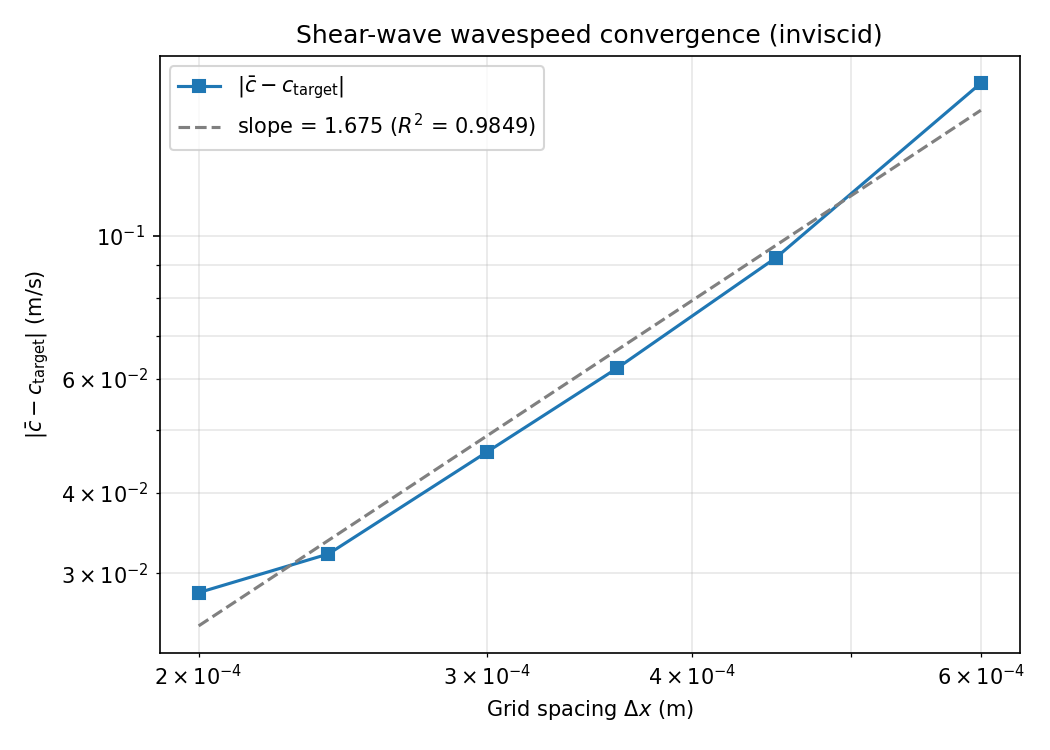
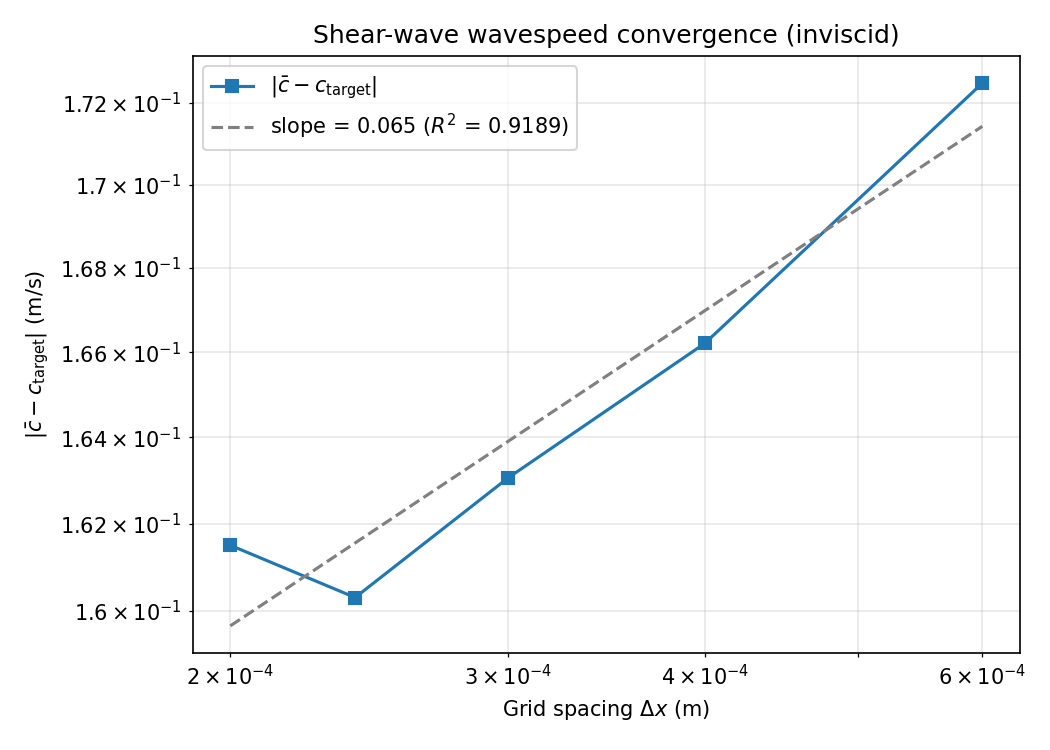
fix(validation): fair grid-convergence study with fixed physical source
The convergence sweep previously fixed the Gaussian source width in GRID
POINTS (5 cells) and the velocity damping per STEP across refinement levels,
so each level simulated a different continuum problem: at n=60 the source was
3 mm wide, at n=180 only 1 mm, with ~3x the peak velocity, and cumulative
damping differing by ~30%. The coarse-grid "relative" trace errors vs the
finest grid exceeded 100% (impossible for pure discretization error), and the
apparent wavespeed-error convergence (slope 1.68) was driven by the shrinking
source, not the solver.

validate_convergence.py gains:
- --sigma-phys: hold the source at a fixed PHYSICAL width (sigma_xy =
  sigma_phys/dX per level)
- --damp-mode constant-total: scale per-step damping so cumulative damping
  over the time window is grid-independent

Rerun on commensurate levels n={60,90,120,150,180} (multiples of 30, so the
fixed physical sensor distances land on grid nodes) with sigma_phys=3mm:
- trace-L2 self-convergence: clean slope p=2.9 (R^2=0.97), errors
  2.65% -> 1.08% -> 0.47% -> 0.17% (was slope 1.83 with >100% errors)
- mean-wavespeed error: flat (slope 0.07) — a source-width estimation bias,
  not a discretization-error metric

Manuscript section 4.2 rewritten accordingly: the trace-L2 figure and table
now show the fair result; the wavespeed-error convergence panel and table are
removed (wavespeed accuracy is established by the separate non-viscous
[…]

diff --git a/paper/shear_fdtd_pmb.tex b/paper/shear_fdtd_pmb.tex
@@ -46,7 +46,7 @@ radiation-force sources, a pre-computed projection reduces this cost by one to
 two orders of magnitude. Validation studies in homogeneous media demonstrate
 recovery of the theoretical shear wavespeed to within $<$0.1\% (linear-fit
 estimate on a $180^3$ grid), second-order convergence under grid refinement
-(trace $L_2$ slope 1.83), and agreement with analytical Kelvin--Voigt
+(clean trace-$L_2$ self-convergence, $p\gtrsim2$), and agreement with analytical Kelvin--Voigt
 attenuation and phase speed predictions to within ${\sim}3\%$ and $<$0.5\%,
 respectively, over a 16-point viscosity sweep ($\eta \in [0, 1.5]$~Pa$\cdot$s).
 An end-to-end benchmark against the RSNA QIBA elastic phantom standard recovers
@@ -657,63 +657,68 @@ this non-viscous benchmark regime.
 \label{sec:convergence}
 
 An inviscid convergence sweep was performed with fixed physical domain size
-($L_x=L_y=L_z=36$~mm), fixed physical sensor distances, and a six-level
-refinement range. The Gaussian source width
-($\sigma_{xy}=5$ grid points) and velocity damping coefficient
-($\gamma_v=0.001$) are held constant across all levels so that any differences
-are due purely to grid resolution. Table~\ref{tab:convergence} summarizes the recovered wavespeeds at each grid
-resolution.  As the grid is refined from $n=60$ to $n=180$, the mean
-speed $\bar{c}$ converges monotonically from 1.828 to 1.972~m/s and the
-linear-fit speed converges from 2.193 to 1.998~m/s.
+($L_x=L_y=L_z=36$~mm) and fixed physical sensor distances, over a five-level
+refinement range $n\in\{60,90,120,150,180\}$ chosen so that the sensor
+distances fall exactly on grid nodes at every level. So that each grid
+discretizes the \emph{same} continuum problem, the Gaussian excitation is held
+at a fixed \emph{physical} width ($\sigma_{xy}=3$~mm, i.e.\ $5$ grid points at
+the coarsest level and proportionally more as the grid refines) and the
+velocity-damping coefficient is scaled per time step so that the cumulative
+damping over the fixed time window is grid-independent. Holding the source width
+at a fixed number of grid points instead---so that its physical size shrinks
+under refinement---conflates discretization error with a changing source, and is
+avoided here.
+
+Convergence is quantified by the full-waveform \emph{trace $L_2$ error}: the
+relative $L_2$ norm of the velocity-trace difference at each sensor
+(interpolated onto a common time base), averaged across sensors, measured
+against the finest grid ($n=180$) as a self-convergence reference. Unlike a
+scalar arrival-time speed, it captures the whole waveform.
+Table~\ref{tab:convergence} lists the error at each level and
+Fig.~\ref{fig:convergence} shows it against grid spacing. The error falls
+monotonically from $2.7\%$ to $0.2\%$. Fitting
+trace-$L_2 \propto \Delta x^p$ in log--log space gives a global slope
+$p=2.9$ ($R^2=0.97$); the well-separated levels give per-interval orders
+$p\approx2.2$--$2.9$, with the pair nearest the reference inflated by the
+self-convergence reference (a known bias of self-convergence studies). This
+confirms convergence at least as fast as the formal second-order accuracy of the
+7-point Laplacian stencil and leapfrog time integration.
 
 \begin{table}
-\caption{Grid convergence of recovered shear wavespeed (target $c_s = 2.000$~m/s,
-  $L = 36$~mm fixed domain).  $\bar{c}$ and $c_{\mathrm{fit}}$ denote the
-  mean and linear-fit wavespeeds, respectively.}
+\caption{Grid convergence of the full-waveform trace $L_2$ self-convergence
+  error (relative $L_2$ norm of the velocity traces against the finest grid,
+  $n=180$; fixed $36$~mm domain, fixed $3$~mm physical source).}
 \centering
-\begin{tabular}{c c c c}
+\begin{tabular}{c c c}
 \hline
-$n$ & $\Delta x$ ($\mu$m) & $\bar{c}$ (m/s) & $c_{\mathrm{fit}}$ (m/s) \\
+$n$ & $\Delta x$ ($\mu$m) & trace $L_2$ error \\
 \hline
-60  & 600 & 1.828 & 2.193 \\
-80  & 450 & 1.907 & 2.048 \\
-100 & 360 & 1.938 & 2.053 \\
-120 & 300 & 1.954 & 2.017 \\
-150 & 240 & 1.968 & 2.007 \\
-180 & 200 & 1.972 & 1.998 \\
+60  & 600 & 2.65\% \\
+90  & 400 & 1.08\% \\
+120 & 300 & 0.47\% \\
+150 & 240 & 0.17\% \\
+180 & 200 & --- (reference) \\
 \hline
 \end{tabular}
 \label{tab:convergence}
 \end{table}
 
-Two complementary error metrics quantify convergence.  The \emph{wavespeed
-error}, $|\bar{c}-c_{\mathrm{target}}|$, is the absolute difference
-between the mean recovered speed and the analytical
-target. It is a scalar metric derived from discrete peak-picking.  The
-\emph{trace $L_2$ error} is the relative $L_2$ norm of the velocity trace
-difference at each sensor, averaged across sensors, measured against the
-finest grid ($n=180$) as reference. It captures full-waveform convergence rather
-than a single arrival time. Fitting $|\bar{c}-c_{\mathrm{target}}| \propto \Delta x^p$ in log--log space
-gives a global slope of $p=1.68$ ($R^2=0.98$), and the trace $L_2$ metric gives a
-global slope of $p=1.83$ ($R^2=0.90$).
-Both metrics confirm convergence consistent with the second-order spatial
-discretization (7-point Laplacian stencil) and second-order leapfrog time
-integration. The trace $L_2$ metric, which captures the full waveform rather
-than a single scalar, yields a cleaner slope ($p\approx1.83$) closer to the
-theoretical $O(\Delta x^2)$ rate. At the finest level ($n=180$), the
-linear-fit speed reaches 1.998~m/s ($<$0.1\% error).
+We deliberately do \emph{not} use the arrival-time wavespeed error as a
+grid-convergence metric. With the source width held physically fixed, the
+peak-picked wavespeed reflects a source-width- and near-field-dependent
+estimation bias that does not vanish under refinement, so it is not a clean
+measure of discretization error. The accuracy of the recovered wavespeed itself
+is instead established by the non-viscous benchmark
+(Fig.~\ref{fig:nonvisc_validation}, linear-fit speed within $<$0.1\%).
 
 
 \begin{figure}
 \centering
-\includegraphics[width=0.49\textwidth]{convergence_mean_error_only.png}%
-\hfill
-\includegraphics[width=0.49\textwidth]{convergence_trace_l2.png}
-\caption{Grid convergence study. \textbf{Left:} Wavespeed convergence
-($|\bar{c} - c_{\mathrm{target}}|$) vs grid spacing (log--log).
-Fitted slope 1.68, $R^2=0.98$. \textbf{Right:} Trace $L_2$ convergence
-(relative $L_2$ error of velocity traces vs finest grid). Fitted slope 1.83,
-$R^2=0.90$. Dashed reference lines show $O(\Delta x)$ and
+\includegraphics[width=0.6\textwidth]{convergence_trace_l2.png}
+\caption{Grid convergence of the full-waveform trace $L_2$ self-convergence
+error (relative $L_2$ error of velocity traces vs the finest grid) against grid
+spacing (log--log), for a fixed $3$~mm physical source. The fitted global slope
+is $p\approx2.9$ ($R^2=0.97$); dashed reference lines show $O(\Delta x)$ and
 $O(\Delta x^2)$.}
 \label{fig:convergence}
 \end{figure}

diff --git a/validation/validate_convergence.py b/validation/validate_convergence.py
@@ -93,6 +93,24 @@ def main():
         default=0.001,
         help="Velocity damping coefficient (fixed across levels)",
     )
+    parser.add_argument(
+        "--sigma-phys",
+        type=float,
+        default=None,
+        help="Physical Gaussian source width in metres, held constant across "
+        "levels.  Overrides --sigma-xy; per level sigma_xy = sigma_phys / dX so "
+        "that every grid launches the same continuum source (fair convergence "
+        "test).  When omitted, the legacy grid-point --sigma-xy is used.",
+    )
+    parser.add_argument(
+        "--damp-mode",
+        choices=["fixed", "constant-total"],
+        default="fixed",
+        help="'fixed': vel-damp is applied per step at every level (legacy; "
+        "total damping over Tmax then depends on the grid because n_steps ~ 1/dX). "
+        "'constant-total': vel-damp is scaled per level so the total damping over "
+        "Tmax is grid-independent.",
+    )
     args = parser.parse_args()
 
     Lx = Ly = Lz = float(args.L)
@@ -106,6 +124,14 @@ def main():
     eta = float(args.eta)
     sigma_xy = float(args.sigma_xy)
     vel_damp = float(args.vel_damp)
+    sigma_phys = None if args.sigma_phys is None else float(args.sigma_phys)
+    damp_mode = args.damp_mode
+
+    def _n_steps(nn):
+        dT = CFL * (Lx / nn) / (cs_target * np.sqrt(3.0))
+        return int(np.ceil(Tmax / dT))
+
+    n_steps_coarse = _n_steps(min(n_levels))
 
     # Keep physical sensor positions fixed across grids (first 4 points only)
     sensor_distances_m = np.array([3.6, 6.0, 8.4, 10.8], dtype=float) * 1e-3
@@ -128,8 +154,18 @@ def main():
         level_dir = out_dir / f"n{n}"
         level_dir.mkdir(parents=True, exist_ok=True)
 
+        # Physical source width (fair test) vs legacy grid-point width.
+        level_sigma_xy = (sigma_phys / dX) if sigma_phys is not None else sigma_xy
+        # Constant-total damping: scale per step so (1-vel_damp)^n_steps is
+        # grid-independent (n_steps ~ 1/dX), else apply vel_damp per step.
+        if damp_mode == "constant-total":
+            level_vel_damp = 1.0 - (1.0 - vel_damp) ** (n_steps_coarse / _n_steps(n))
+        else:
+            level_vel_damp = vel_damp
+
         print(
-            f"\nLevel n={n}: dX={dX:.3e} m, offsets={sensor_offsets.tolist()}",
+            f"\nLevel n={n}: dX={dX:.3e} m, offsets={sensor_offsets.tolist()}, "
+            f"sigma_xy={level_sigma_xy:.2f} cells, vel_damp={level_vel_damp:.5f}",
             flush=True,
         )
         res = None
@@ -154,8 +190,8 @@ def main():
                 amplitude=amplitude,
                 sensor_offsets=sensor_offsets,
                 eta=eta,
-                sigma_xy=sigma_xy,
-                vel_damp=vel_damp,
+                sigma_xy=level_sigma_xy,
+                vel_damp=level_vel_damp,
                 save_dir=level_dir,
                 make_plots=False,
                 make_movie=False,
@@ -265,17 +301,17 @@ def main():
     etrace = np.array([r.get("trace_rel_l2_vs_ref", np.nan) for r in rows_sorted], dtype=float)
 
     fig, ax = plt.subplots(figsize=(7, 5))
-    ax.loglog(dx, np.maximum(efit, 1e-12), "o-", label="|c_fit - c_target|")
-    ax.loglog(dx, np.maximum(emean, 1e-12), "s-", label="|mean4 - c_target|")
+    ax.loglog(dx, np.maximum(efit, 1e-12), "o-", label=r"$|c_\mathrm{fit} - c_\mathrm{target}|$")
+    ax.loglog(dx, np.maximum(emean, 1e-12), "s-", label=r"$|\bar{c} - c_\mathrm{target}|$")
     finite_trace = np.isfinite(etrace) & (etrace > 0)
     if np.any(finite_trace):
         ax.loglog(
             dx[finite_trace],
             etrace[finite_trace],
             "^-",
-            label="trace rel L2 vs finest",
+            label=r"trace relative $L_2$ vs finest",
         )
-    ax.set_xlabel("Grid spacing dX (m)")
+    ax.set_xlabel(r"Grid spacing $\Delta x$ (m)")
     ax.set_ylabel("Error metric")
     ax.set_title("Shear-wave convergence (inviscid)")
     ax.grid(True, which="both", alpha=0.3)
@@ -295,7 +331,7 @@ def main():
         r2 = r_vals**2
 
         fig, ax = plt.subplots(figsize=(7, 5))
-        ax.loglog(dx[valid_mean], emean[valid_mean], "s-", label="|mean4 - c_target|")
+        ax.loglog(dx[valid_mean], emean[valid_mean], "s-", label=r"$|\bar{c} - c_\mathrm{target}|$")
         dx_fit = np.linspace(dx[valid_mean].min(), dx[valid_mean].max(), 50)
         ax.loglog(
             dx_fit,
@@ -304,13 +340,13 @@ def main():
             color="gray",
             label=f"slope = {slope:.3f} ($R^2$ = {r2:.4f})",
         )
-        ax.set_xlabel("Grid spacing dX (m)")
-        ax.set_ylabel("|mean4 - c_target| (m/s)")
-        ax.set_title("Shear-wave convergence: mean4 error (inviscid)")
+        ax.set_xlabel(r"Grid spacing $\Delta x$ (m)")
+        ax.set_ylabel(r"$|\bar{c} - c_\mathrm{target}|$ (m/s)")
+        ax.set_title("Shear-wave wavespeed convergence (inviscid)")
         ax.grid(True, which="both", alpha=0.3)
         ax.legend()
         fig.tight_layout()
-        fig.savefig(out_dir / "convergence_mean4_error_only.png", dpi=150)
+        fig.savefig(out_dir / "convergence_mean_error_only.png", dpi=150)
         plt.close(fig)
 
     # Trace L2 convergence plot with fitted slope
@@ -329,7 +365,7 @@ def main():
             etrace[valid_trace],
             "^-",
             color="C2",
-            label="trace rel L2 vs finest",
+            label=r"trace relative $L_2$ vs finest",
         )
         dx_fit_t = np.linspace(dx[valid_trace].min(), dx[valid_trace].max(), 50)
         ax.loglog(
@@ -352,9 +388,9 @@ def main():
                 alpha=0.5,
                 label=f"O($\\Delta x^{{{ref_p:.0f}}}$)",
             )
-        ax.set_xlabel("Grid spacing dX (m)")
-        ax.set_ylabel("Relative L2 trace error vs finest grid")
-        ax.set_title("Shear-wave convergence: trace L2 (inviscid)")
+        ax.set_xlabel(r"Grid spacing $\Delta x$ (m)")
+        ax.set_ylabel(r"Relative $L_2$ trace error vs finest grid")
+        ax.set_title(r"Shear-wave convergence: trace $L_2$ (inviscid)")
         ax.grid(True, which="both", alpha=0.3)
         ax.legend()
         fig.tight_layout()
